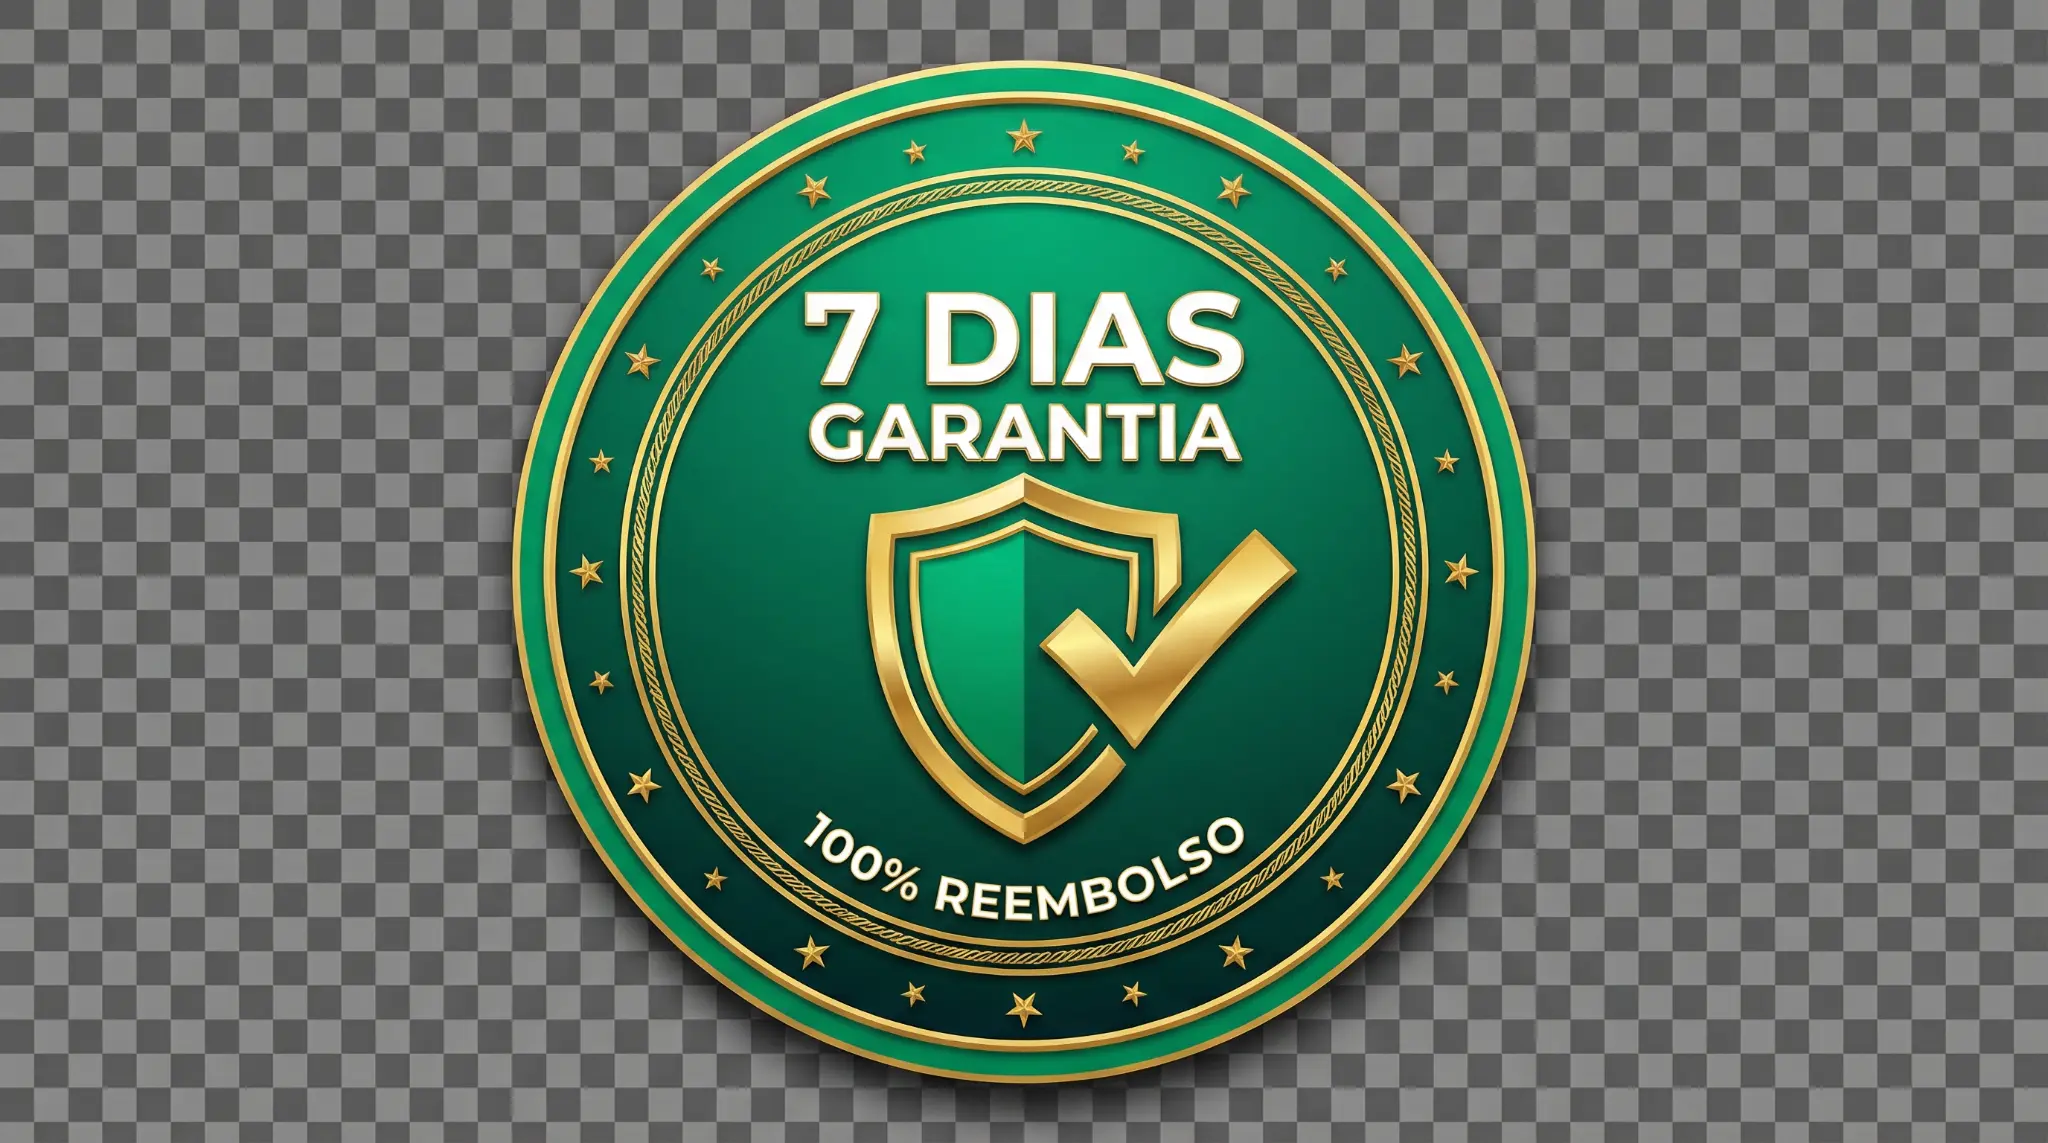
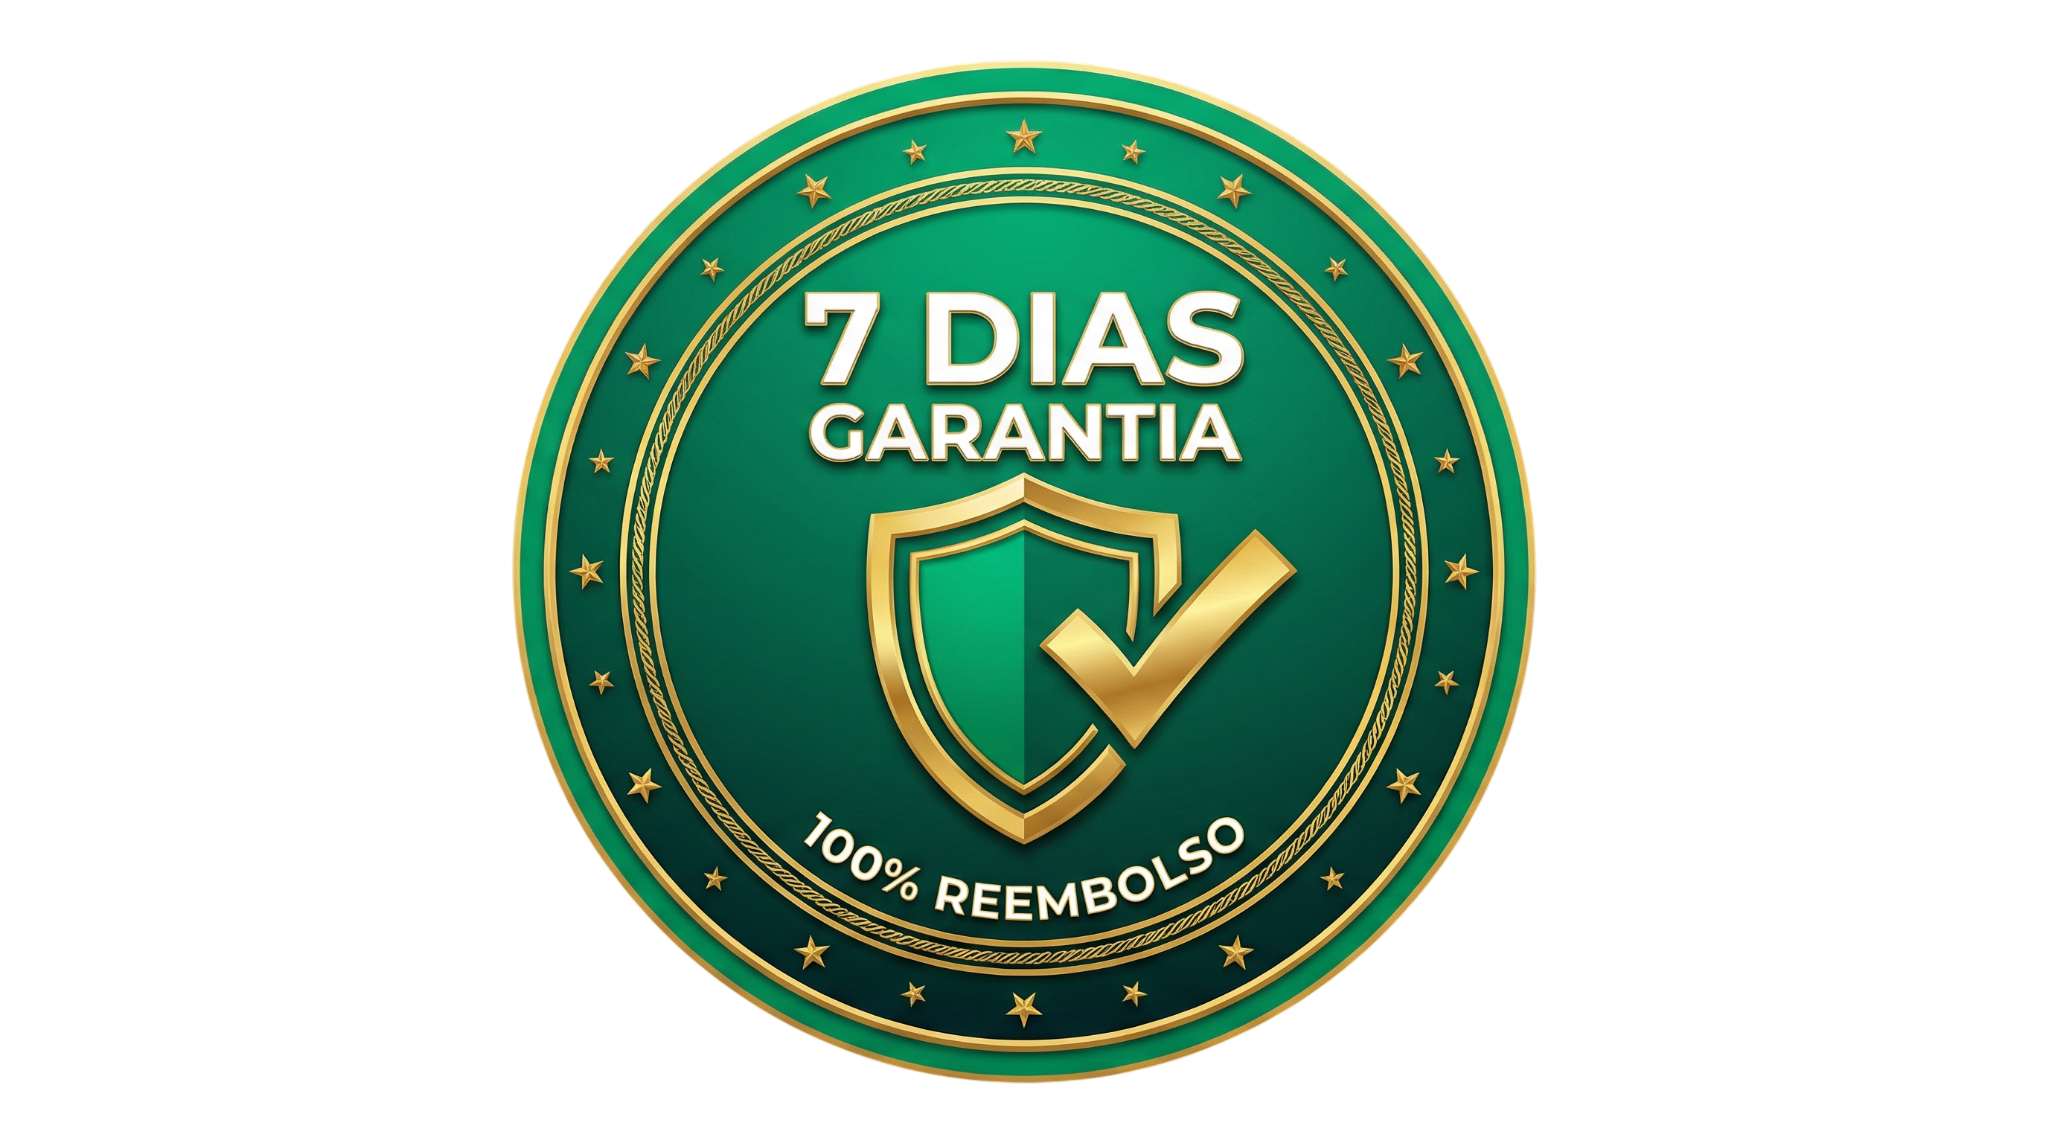
Substituir 3 imagens por versões PNG otimizadas e remover border tracejado verde

diff --git a/ativacao-blindada.html b/ativacao-blindada.html
@@ -187,14 +187,8 @@
         }
 
         .hero-image-placeholder {
-            background: rgba(255, 255, 255, 0.05);
-            border: 2px dashed rgba(16, 185, 129, 0.3);
-            border-radius: 16px;
-            padding: 60px 40px;
             margin: 40px auto;
             max-width: 700px;
-            color: #9ca3af;
-            font-size: 0.95rem;
         }
 
         .trust-badges {
